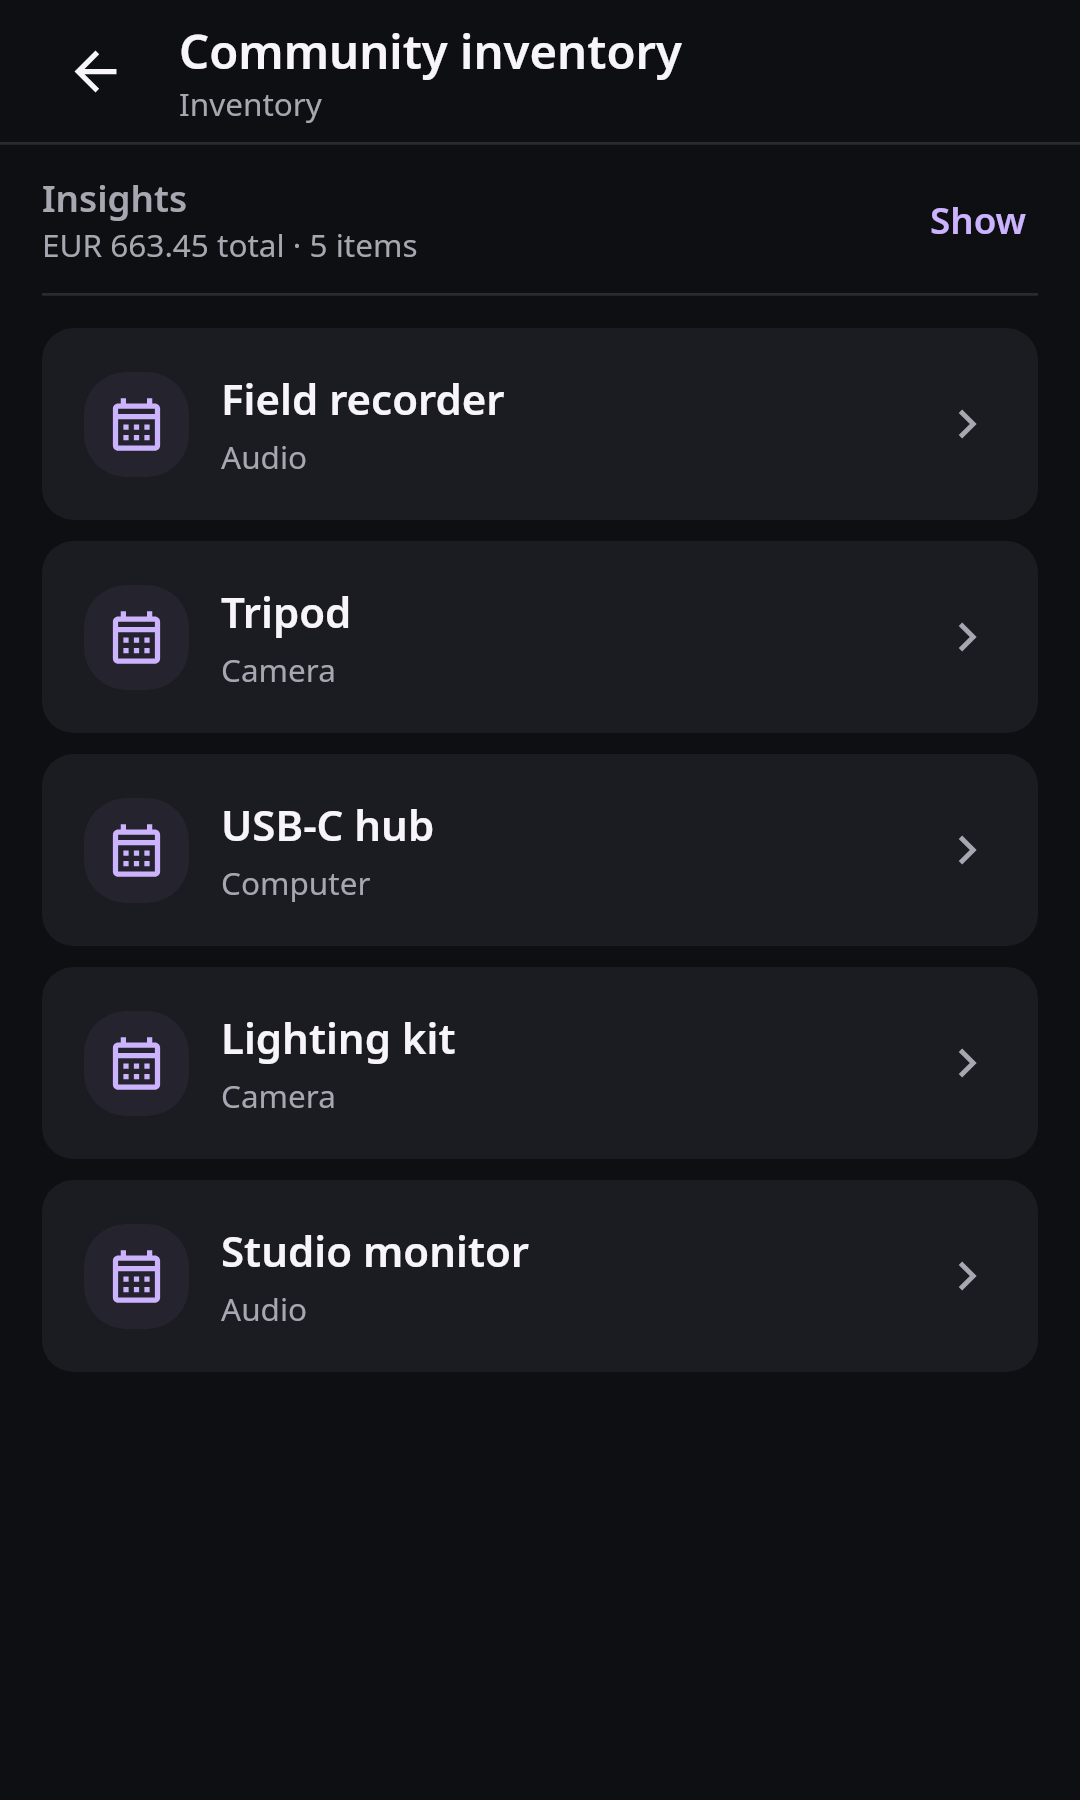
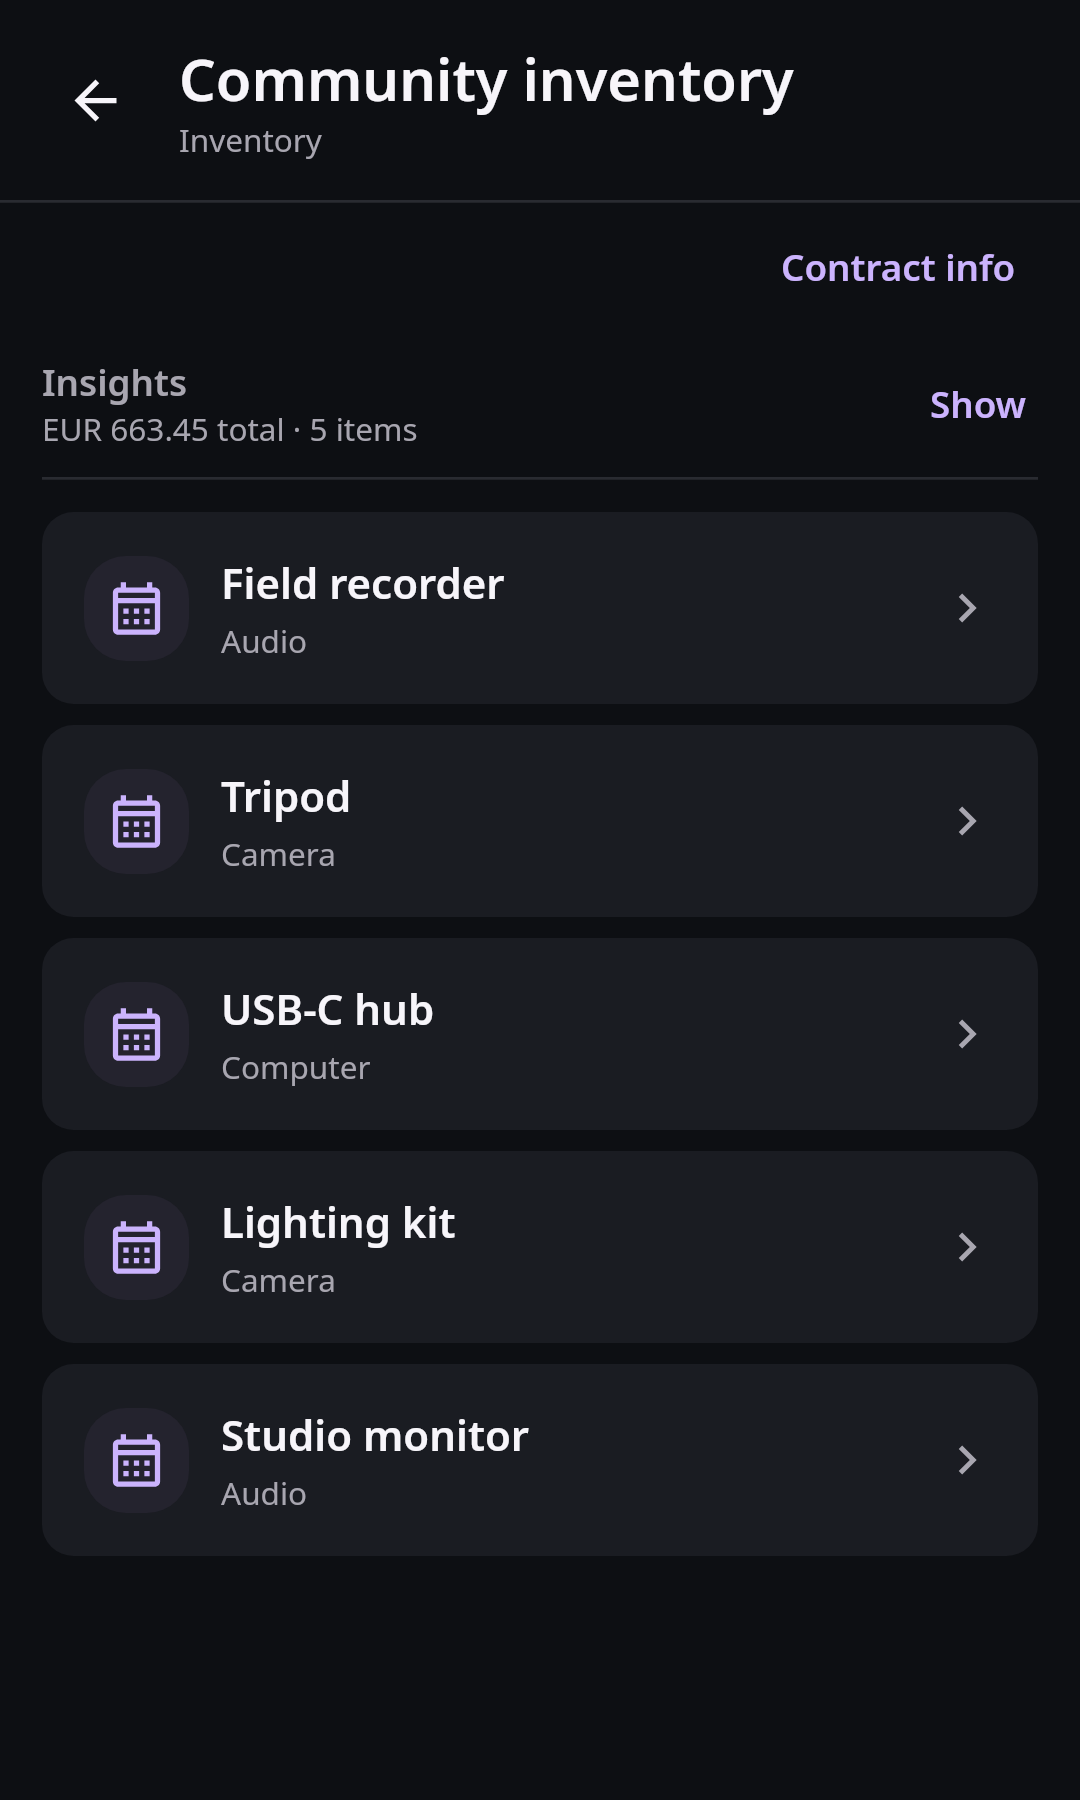
fix(dynamic-ui): preserve adaptive table actions

diff --git a/ui/src/commonMain/kotlin/dev/obiente/nextcloudnative/nativeui/runtime/GenericNativeRenderer.kt b/ui/src/commonMain/kotlin/dev/obiente/nextcloudnative/nativeui/runtime/GenericNativeRenderer.kt
@@ -490,21 +490,26 @@ private fun GenericTableCollection(
     }
     val insights = remember(projection) { nativeDatasetInsights(projection.resource, projection.records) }
     BoxWithConstraints(modifier = Modifier.fillMaxSize()) {
-        val compactViewport = shouldUseCompactTableRecordList(maxWidth.value)
+        val compactRecordList = shouldUseCompactTableRecordList(maxWidth.value)
+        val expandInsights = datasetInsightsDefaultExpanded(maxWidth.value, maxHeight.value)
         Column(modifier = Modifier.fillMaxSize()) {
             insights?.let {
                 DatasetInsightsDisclosure(
                     insights = it,
-                    compact = compactViewport,
-                    initiallyExpanded = !compactViewport,
+                    compact = !expandInsights,
+                    initiallyExpanded = expandInsights,
                     stateKey = "table:${resource.id}",
                 )
             }
-            if (compactViewport) {
-                GenericRecordList(
-                    resource = projection.resource,
+            if (compactRecordList) {
+                GenericEditableTableRecordList(
+                    schema = schema,
+                    sourceResource = resource,
+                    projection = projection,
                     records = projection.records,
                     onSelectRecord = onSelectRecord,
+                    actionExecutor = actionExecutor,
+                    onInlineActionSucceeded = onInlineActionSucceeded,
                     modifier = Modifier.weight(1f),
                 )
             } else {
@@ -705,6 +710,136 @@ private fun GenericRecordList(
         items(records, key = NativeRecord::id) { record ->
             GenericCollectionCard(resource, record, onSelectRecord)
         }
+    }
+}
+
+@Composable
+private fun GenericEditableTableRecordList(
+    schema: NativeAppSchema,
+    sourceResource: ResourceSpec,
+    projection: NativeTableProjection,
+    records: List<NativeRecord>,
+    onSelectRecord: ((NativeRecord) -> Unit)?,
+    actionExecutor: NativeActionExecutor,
+    onInlineActionSucceeded: (() -> Unit)?,
+    modifier: Modifier = Modifier,
+) {
+    val fields = remember(projection) {
+        if (projection.composite) {
+            projection.resource.fields.filter { it.id in projection.projectedFieldIds } +
+                listOfNotNull(projection.resource.fields.firstOrNull { it.id == projection.frozenFieldId })
+        } else {
+            nativeTableFields(projection.resource, records)
+        }
+    }.distinctBy(FieldSpec::id)
+    var activeEdit by remember(schema, projection) { mutableStateOf<NativeCellEditPlan?>(null) }
+    var editValue by remember { mutableStateOf("") }
+    var editError by remember { mutableStateOf<String?>(null) }
+    var savingEdit by remember { mutableStateOf(false) }
+    val editedValues = remember(schema, projection) { mutableStateMapOf<NativeCellAddress, String>() }
+    val scope = rememberCoroutineScope()
+
+    LazyColumn(
+        modifier = modifier,
+        contentPadding = PaddingValues(
+            start = NextcloudSpacing.Large,
+            top = NextcloudSpacing.Medium,
+            end = NextcloudSpacing.Large,
+            bottom = NextcloudSpacing.XXLarge,
+        ),
+        verticalArrangement = Arrangement.spacedBy(NextcloudSpacing.Small),
+    ) {
+        items(records, key = NativeRecord::id) { record ->
+            val editedFields = fields.mapNotNull { field ->
+                editedValues[NativeCellAddress(record.id, field.id)]?.let { field.id to it }
+            }.toMap()
+            val displayRecord = record.copy(
+                values = record.values + editedFields,
+                displayValues = record.displayValues - editedFields.keys,
+            )
+            val editPlans = fields.mapNotNull { field ->
+                nativeCellEditPlan(schema, sourceResource, projection, record, field)
+            }
+            GenericCollectionCard(
+                resource = projection.resource,
+                record = displayRecord,
+                onSelectRecord = onSelectRecord,
+                secondaryActions = editPlans.map { plan ->
+                    NextcloudCardAction(
+                        label = "Edit ${plan.field.label}",
+                        enabled = !savingEdit,
+                        onClick = {
+                            activeEdit = plan.copy(
+                                originalValue = editedValues[
+                                    NativeCellAddress(plan.recordId, plan.field.id)
+                                ] ?: plan.originalValue,
+                            )
+                            editValue = editedValues[
+                                NativeCellAddress(plan.recordId, plan.field.id)
+                            ] ?: plan.originalValue
+                            editError = null
+                        },
+                    )
+                },
+            )
+        }
+    }
+
+    activeEdit?.let { plan ->
+        AlertDialog(
+            onDismissRequest = { if (!savingEdit) activeEdit = null },
+            title = { Text("Edit ${plan.field.label}") },
+            text = {
+                OutlinedTextField(
+                    value = editValue,
+                    onValueChange = {
+                        editValue = it
+                        editError = null
+                    },
+                    enabled = !savingEdit,
+                    label = { Text(plan.field.label) },
+                    supportingText = editError?.let { message -> { Text(message) } },
+                    isError = editError != null,
+                    singleLine = plan.field.kind != FieldKind.longText,
+                    minLines = if (plan.field.kind == FieldKind.longText) 3 else 1,
+                )
+            },
+            dismissButton = {
+                TextButton(enabled = !savingEdit, onClick = { activeEdit = null }) { Text("Cancel") }
+            },
+            confirmButton = {
+                Button(
+                    enabled = !savingEdit,
+                    onClick = {
+                        val validation = validateNativeCellEdit(plan.field, editValue)
+                        if (validation != null) {
+                            editError = validation
+                        } else {
+                            savingEdit = true
+                            scope.launch {
+                                when (val result = actionExecutor.execute(plan.request(editValue.trim()))) {
+                                    is NativeActionExecutionResult.Success -> {
+                                        editedValues[
+                                            NativeCellAddress(plan.recordId, plan.field.id)
+                                        ] = editValue.trim()
+                                        activeEdit = null
+                                        onInlineActionSucceeded?.invoke()
+                                    }
+                                    is NativeActionExecutionResult.Failure -> editError = result.message
+                                }
+                                savingEdit = false
+                            }
+                        }
+                    },
+                ) {
+                    if (savingEdit) {
+                        CircularProgressIndicator(modifier = Modifier.size(18.dp), strokeWidth = 2.dp)
+                    } else {
+                        Text("Save")
+                    }
+                }
+            },
+        )
     }
 }
 
@@ -2419,8 +2554,10 @@ private fun GenericCollectionCard(
     resource: ResourceSpec,
     record: NativeRecord,
     onSelectRecord: ((NativeRecord) -> Unit)?,
+    secondaryActions: List<NextcloudCardAction> = emptyList(),
 ) {
     val presentation = nativeRecordPresentation(resource, record)
+    var actionsExpanded by rememberSaveable(record.id) { mutableStateOf(false) }
     val content: @Composable ColumnScope.() -> Unit = {
         Row(
             modifier = Modifier.fillMaxWidth().padding(NextcloudSpacing.Large),
@@ -2445,7 +2582,14 @@ private fun GenericCollectionCard(
                     )
                 }
             }
-            if (onSelectRecord != null) {
+            if (secondaryActions.isNotEmpty()) {
+                NextcloudCardOverflow(
+                    itemLabel = presentation.title,
+                    actions = secondaryActions,
+                    expanded = actionsExpanded,
+                    onExpandedChange = { actionsExpanded = it },
+                )
+            } else if (onSelectRecord != null) {
                 Icon(
                     NextcloudIcons.ChevronRight,
                     contentDescription = "Open ${presentation.title}",

diff --git a/ui/src/commonMain/kotlin/dev/obiente/nextcloudnative/app/MarketingCaptureScenarios.kt b/ui/src/commonMain/kotlin/dev/obiente/nextcloudnative/app/MarketingCaptureScenarios.kt
@@ -2,6 +2,7 @@ package dev.obiente.nextcloudnative.app
 
 import androidx.compose.foundation.layout.Arrangement
 import androidx.compose.foundation.layout.Box
+import androidx.compose.foundation.layout.BoxWithConstraints
 import androidx.compose.foundation.layout.Column
 import androidx.compose.foundation.layout.PaddingValues
 import androidx.compose.foundation.layout.Row
@@ -558,25 +559,27 @@ internal fun MarketingAdaptiveAppScenario(scenario: MarketingCaptureScenario) {
     }
     val schema = marketingAdaptiveSchema
     val view = schema.views.single()
-    val compact = scenario.presentation != NextcloudPresentation.Desktop
-    Column(modifier = Modifier.fillMaxSize()) {
-        DynamicAppChromeHeader(
-            title = schema.app.name,
-            subtitle = view.title,
-            onBack = {},
-            compact = compact,
-            onContractInfo = {},
-        )
-        GenericNativeAppScreen(
-            schema = schema,
-            view = view,
-            state = NativeScreenState.Ready(marketingAdaptiveRecords),
-            actionExecutor = NativeActionExecutor {
-                NativeActionExecutionResult.Failure("This fixture is read-only.")
-            },
-            onSelectRecord = {},
-            modifier = Modifier.weight(1f),
-        )
+    BoxWithConstraints(modifier = Modifier.fillMaxSize()) {
+        val compact = shouldUseCompactDynamicAppChrome(maxWidth.value, maxHeight.value)
+        Column(modifier = Modifier.fillMaxSize()) {
+            DynamicAppChromeHeader(
+                title = schema.app.name,
+                subtitle = view.title,
+                onBack = {},
+                compact = compact,
+                onContractInfo = {},
+            )
+            GenericNativeAppScreen(
+                schema = schema,
+                view = view,
+                state = NativeScreenState.Ready(marketingAdaptiveRecords),
+                actionExecutor = NativeActionExecutor {
+                    NativeActionExecutionResult.Failure("This fixture is read-only.")
+                },
+                onSelectRecord = {},
+                modifier = Modifier.weight(1f),
+            )
+        }
     }
 }
 

diff --git a/ui/src/commonMain/kotlin/dev/obiente/nextcloudnative/app/NextcloudNativeApp.kt b/ui/src/commonMain/kotlin/dev/obiente/nextcloudnative/app/NextcloudNativeApp.kt
@@ -1949,7 +1949,7 @@ private fun DynamicDiscoveredAppScreen(
     )
 
     BoxWithConstraints(modifier = modifier.fillMaxSize()) {
-        val compactLandscape = maxWidth > maxHeight && maxHeight < 600.dp
+        val compactLandscape = shouldUseCompactDynamicAppChrome(maxWidth.value, maxHeight.value)
         Column(modifier = Modifier.fillMaxSize()) {
             DynamicAppChromeHeader(
                 title = descriptor.app.name,
@@ -2339,6 +2339,9 @@ private fun DynamicDiscoveredAppScreen(
         )
     }
 }
+
+internal fun shouldUseCompactDynamicAppChrome(widthDp: Float, heightDp: Float): Boolean =
+    widthDp > heightDp && heightDp < 600f
 
 /**
  * Shared contextual chrome for discovered native app surfaces.

diff --git a/ui/src/commonTest/kotlin/dev/obiente/nextcloudnative/app/MarketingProductionCaptureTest.kt b/ui/src/commonTest/kotlin/dev/obiente/nextcloudnative/app/MarketingProductionCaptureTest.kt
@@ -36,6 +36,8 @@ class MarketingProductionCaptureTest {
         assertFalse(shouldUseCompactTableRecordList(widthDp = 1_440f))
         assertFalse(shouldUseCompactTableRecordList(widthDp = 900f))
         assertTrue(shouldUseCompactTableRecordList(widthDp = 412f))
+        assertFalse(shouldUseCompactDynamicAppChrome(widthDp = 412f, heightDp = 686f))
+        assertTrue(shouldUseCompactDynamicAppChrome(widthDp = 900f, heightDp = 420f))
     }
 
     @Test
